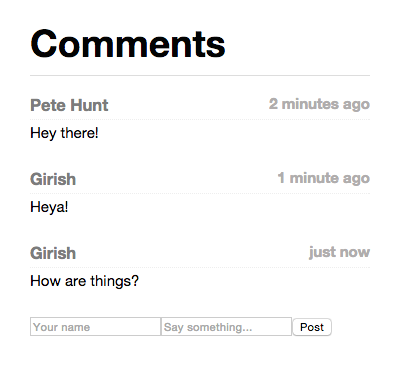
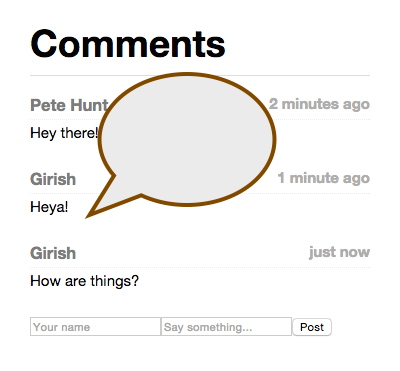
added multiple images for commentbox

diff --git a/index.html b/index.html
@@ -81,14 +81,6 @@ class: left, top, inverse
 --
 - React Native
 
-
----
-template: inverse_center
-# Changing DOM
-
---
-## .red[is painful]
-
 ---
 template: inverse_center
 # You don't need to touch DOM
@@ -104,19 +96,38 @@ template: inverse_center
 
 - Separate your concerns
 
---
+---
 
-![alt text](images/cb_1.png)
+![alt text](images/b1.png)
+
+# React Component
 
 ---
 
-# React Components
+![alt text](images/b2.png)
 
-- Separate your concerns
-
-![alt text](images/cb_2.png)
+# React Component
 
 ---
+
+![alt text](images/b3.png)
+
+# React Component
+
+---
+
+![alt text](images/b4.png)
+
+# React Component
+
+---
+
+![alt text](images/b5.png)
+
+# React Component
+
+---
+class: inverse, left
 
 # React Components
 
@@ -153,6 +164,22 @@ template: inverse_center
 
 ### Describe how your component looks like at any point in time
 
+--
+
+### Pseudo-code
+
+```
+CommentList ->
+  render ->
+    comments_array = this.state.data.map(comment) ->
+      <Comment data=comment />
+
+    return (
+      <ul>
+        {comments_array}
+      </ul>)
+```
+
 ---
 
 # CommentBox Component
@@ -167,17 +194,21 @@ template: inverse_center
 
 --
 
-## Tell React - deal with it!
-
 ```
 //
 // comments sent by server
-// data = [
-//    {"author": "Pete Hunt", "text": "Hey there!", ... },
-//    {"author": "Girish", "text": "Heya!", ... }
-// ]
-//
-this.setState({comments: data})
+ data = [
+    {"author": "Pete Hunt", "text": "Hey there!", ... },
+    {"author": "Girish", "text": "Heya!", ... }
+ ]
+
+```
+
+--
+## Tell React - deal with it!
+
+```
+this.setState({data: data})
 ```
 
 ---
@@ -225,6 +256,9 @@ this.setState({comments: data})
 ## all javascript
 
 --
+### Execute on server
+
+--
 ### Server Side Render
 #### SEO friendly
 
@@ -237,12 +271,6 @@ class: inverse, left
 # HelloWorld Component
 
 ```
-var HelloMessage = React.createClass({
-  render: function() {
-    return React.DOM.span({onClick: someFunc}, "Hello, world!");
-  }
-});
-
 var App = React.createClass({
   render: function() {
     return React.DOM.div({className: "main"}, [
@@ -251,10 +279,19 @@ var App = React.createClass({
   }
 })
 
+
+var HelloMessage = React.createClass({
+  render: function() {
+    return React.DOM.span({onClick: someFunc}, "Hello, world!");
+  }
+});
+
+
 React.render(React.createElement(App), 
 *               document.getElementById("content"));
 ```
 
+### DOM generated by component
 ```html
 <div class="main">
   <span>Hello, World!</span>
@@ -268,12 +305,6 @@ class: inverse, left
 # HelloWorld Component JSX
 
 ```
-var HelloMessage = React.createClass({
-  render: function() {
-    return <span onClick={someFunc}>Hello, world!</span>
-  }
-});
-
 var App = React.createClass({
   render: function() {
     return  <div className="main">
@@ -281,7 +312,14 @@ var App = React.createClass({
             </div>
     
   }
-})
+});
+
+var HelloMessage = React.createClass({
+  render: function() {
+    return <span onClick={someFunc}>Hello, world!</span>
+  }
+});
+
 
 React.render(<App />, 
                document.getElementById("content"));
@@ -294,12 +332,6 @@ class: inverse, left
 # jsx compiles to...
 
 ```
-var HelloMessage = React.createClass({
-  render: function() {
-    return React.DOM.span({onClick: someFunc}, "Hello, world!");
-  }
-});
-
 var App = React.createClass({
   render: function() {
     return React.DOM.div({className: "main"}, [
@@ -307,6 +339,14 @@ var App = React.createClass({
     ]);
   }
 })
+
+
+var HelloMessage = React.createClass({
+  render: function() {
+    return React.DOM.span({onClick: someFunc}, "Hello, world!");
+  }
+});
+
 
 React.render(React.createElement(App), 
                document.getElementById("content"));
@@ -335,7 +375,7 @@ class: top inverse
 - componentWillUnmount()
 
 ---
-class: top inverse
+class: center middle inverse
 # Using React in Rails
 
 ---
@@ -418,6 +458,11 @@ class: top inverse
 --
   - live reloading
 
+---
+class: center middle inverse
+# Thank You!
+## Twitter, Github: @girishso
+## girish@cuberoot.in
 
     </textarea>
     <script src="remark.js" type="text/javascript">
